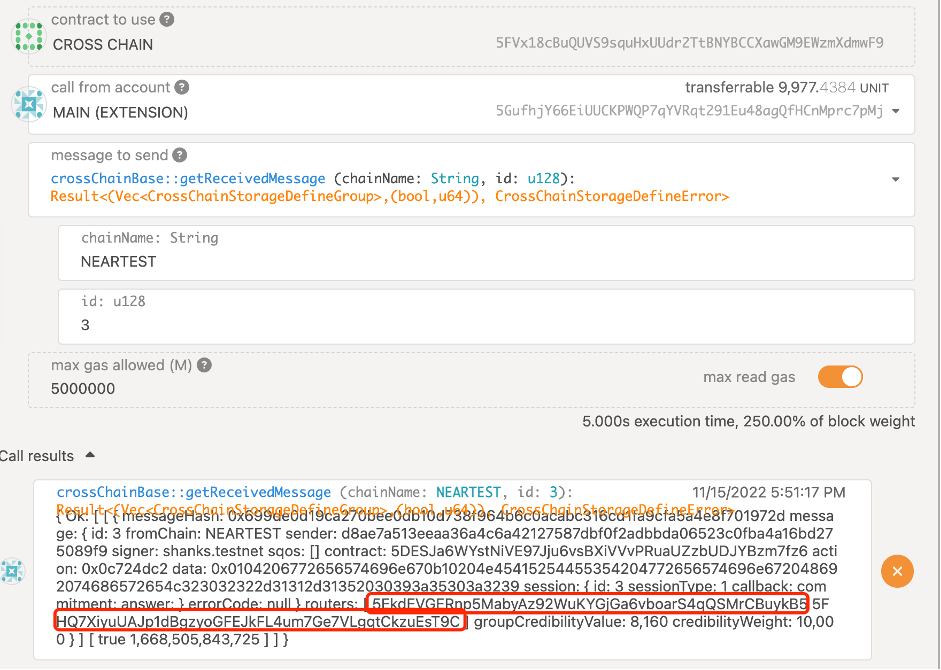
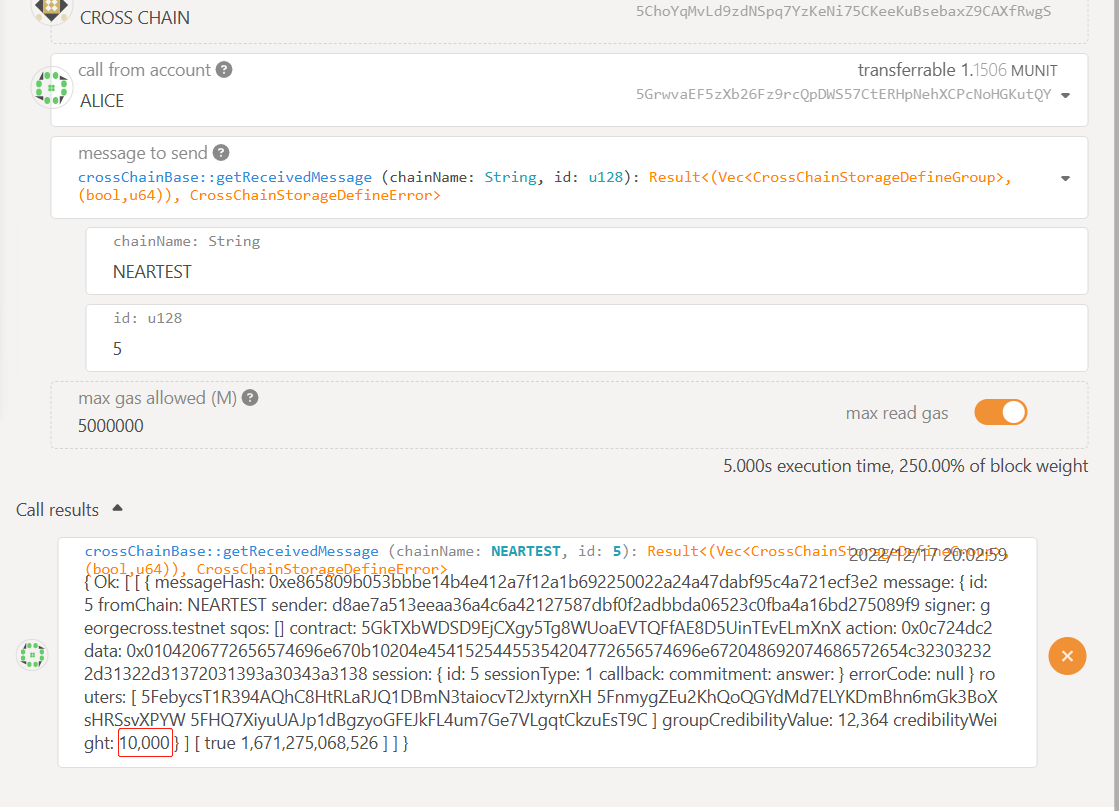
update test guide: finished

Changed region(s): [[0.0, 0.0, 1.0, 1.0], [0.5239, 0.0597, 0.9554, 0.1791], [0.5855, 0.0, 0.9554, 0.0299]]

diff --git a/test/item-threshold.md b/test/item-threshold.md
@@ -4,11 +4,16 @@
 <br>
 The SQoS item `Threshold` is easy to understand, which defines the threshole of the message verification.  
 
-Call `setSqos` of `GREETING` contract to set `Threshold` SQoS, the value is 80(it means only need 80% of the total credibility of all submissions), the value type is `u8`,  and converted to to bytes value is `0x50` , as Fig.3-1 shown. 
+Call `setSqos` of `GREETING` contract to set `Threshold` SQoS, the value is 6000(it means only need 60% of the total credibility of all submissions), the value type is `u32`,  and converted to to bytes value is `0x1770` , as Fig.3-1 shown. 
 
-![img](../assets/3-1.png)
+![img](../assets/3-1-1.png)
 <p align="center">Fig.3-1 change to Threshold SQoS</p>
 
+Check if the setting works:  
+![img](../assets/3-1-2.png)
+<p align="center">Fig.3-1-2 Check the Threshold</p>
+
+You can try the normal working flow with the new `Threshold`.   
 * Send normal greeting message from NEAR testnet. [Prepare a Near Testnet account](https://docs.near.org/concepts/basics/accounts/creating-accounts) before next.
 
 * Export the address of contract `GREETING`, which could be found at [Preparing work](./README.md#polkadot-testnet-contract-address):  
@@ -27,7 +32,7 @@ Call `setSqos` of `GREETING` contract to set `Threshold` SQoS, the value is 80(i
 * When we are testing, the result as shown in Fig.3-3.  
 * Check the received message by calling `getReceivedMessage` of `CROSS CHAIN` contract:  
 ![img](../assets/3-3-2.png)
-<p align="center">Fig.3-3 2 routers recevied message</p>
+<p align="center">Fig.3-3 The recevied message</p>
 
 ## Links
 * [Setup and Unit-Test](./README.md#setup)
